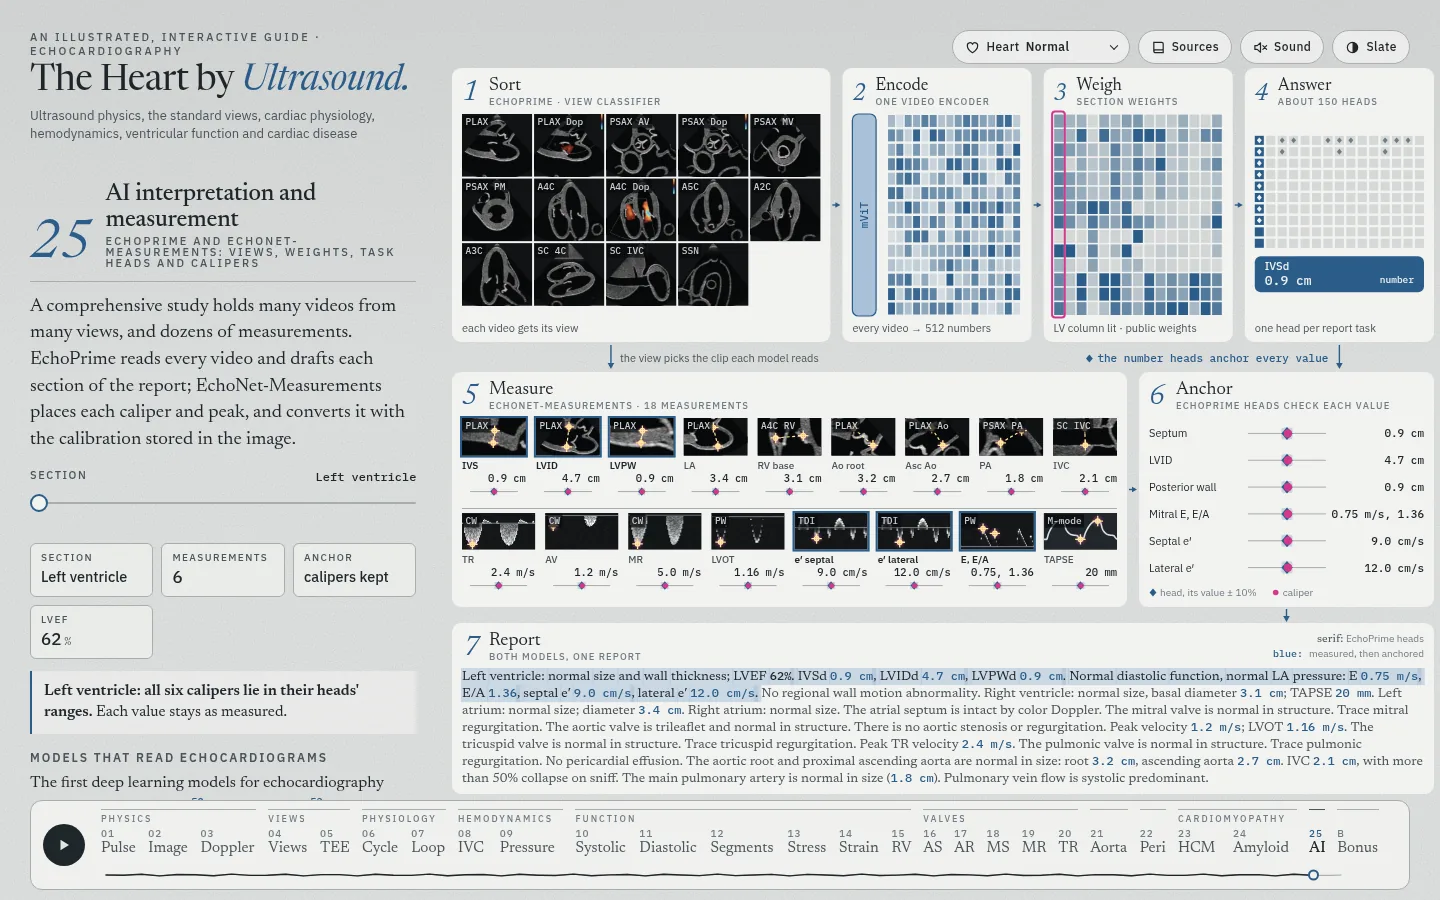
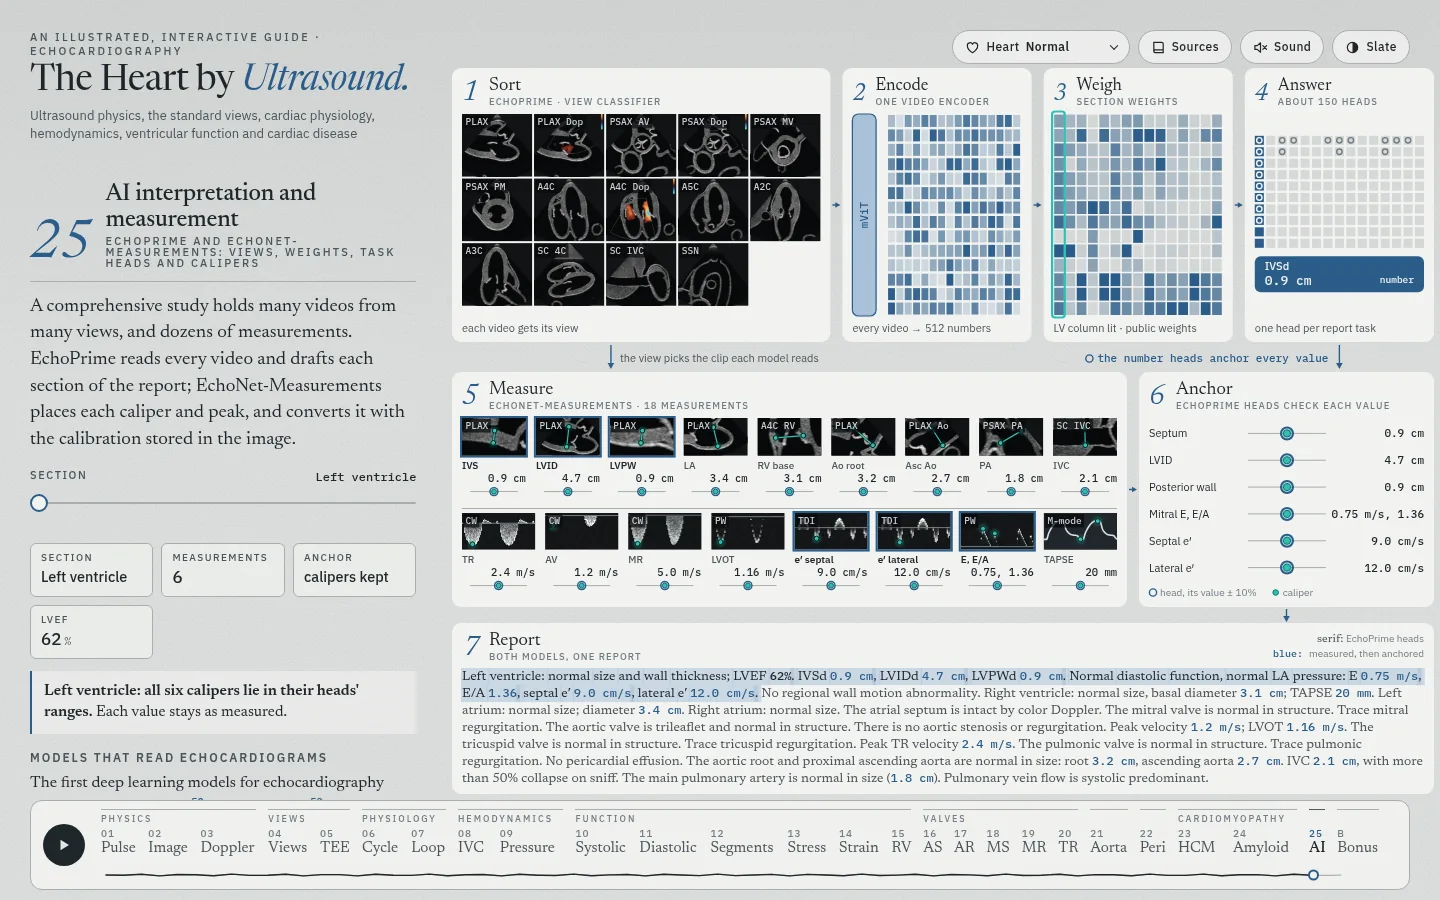
AI figure: the measurement marks in the InVision teal; dots, not crosses
- Heat maps, caliper lines and ends, the anchor's caliper dots, the lit
  column's frame and the values before the anchor: teal #2dc1b3. On
  paper, text and edges in #0f766e.
- Caliper ends: a teal dot with a dark edge on a solid teal line. The
  yellow dashed line and the ring with a cross are gone.
- Number heads: a ring in the accent, not a diamond. On slate, a deeper
  blue keeps it apart from the teal (dataviz check: dE 16.8, was 11.1).
- measure.js: blob() takes a color. The hidden chapter keeps its colors.
- README: checks entry; docs/screenshots/ai.webp taken again.

Claude-Session: https://claude.ai/code/session_01NtQNVy8YQ5NUAw3xwF3MnN

diff --git a/src/aifig.js b/src/aifig.js
@@ -21,7 +21,7 @@ import { SC, spectral } from './scope.js';
 import { cycleAt, RR } from './cyclemodel.js';
 import { SECTIONS, W as WEIGHT } from './echoprime.js';
 import { buildReport } from './ch/report.js';
-import { B, D, SITE, siteValue, dopplerOf, regionOf, DW, DH, DEEPER, OFF, blob, centerMark, loadViews, warmViews, reportedFrame } from './ch/measure.js';
+import { B, D, SITE, siteValue, dopplerOf, regionOf, DW, DH, DEEPER, OFF, blob, loadViews, warmViews, reportedFrame } from './ch/measure.js';
 
 const SERIF = '"Newsreader", "Iowan Old Style", "Palatino Linotype", Palatino, Georgia, serif';
 /** A head's range in the figure: its value ± 10%. A band chosen for the figure, not the model's error. */
@@ -197,8 +197,11 @@ const mix = (a, b, u) => a.map((x, i) => Math.round(x + (b[i] - x) * u));
 const css = (c, a = 1) => (a >= 1 ? `rgb(${c[0]},${c[1]},${c[2]})` : `rgba(${c[0]},${c[1]},${c[2]},${a})`);
 /**
  * The figure's colors from the sheet's tokens, in both themes: the cards on paper-2; the weights
- * from paper-3 (0) to the accent (1); the heat maps' pink, on the paper and on the scanner.
+ * from paper-3 (0) to the accent (1). The measurement model's marks are in the InVision teal
+ * (invision-brand): #2dc1b3 for the heat maps, the calipers' dots and lines and the frame; on
+ * paper, text and outlines in the readable teal #0f766e.
  */
+const TEAL = '#2dc1b3', TEAL_RGB = [45, 193, 179];
 function palette(t) {
   const key = `${t.paper}|${t.paper2}|${t.paper3}|${t.accent}|${t.dark}`;
   if (PAL.key === key) return PAL;
@@ -207,7 +210,11 @@ function palette(t) {
     key,
     card: t.paper2,
     weight: (w) => css(mix(p3, ac, clamp(w, 0, 1))),
-    pink: t.dark ? '#ff6fb5' : '#d2398c',
+    teal: TEAL,
+    tealInk: t.dark ? TEAL : '#0f766e',
+    // the head's ring beside the teal dot: the accent; on slate a deeper blue, as the light accent
+    // and the teal are too alike there (dataviz palette check: ΔE 11 against 17)
+    head: t.dark ? css(mix(ac, rgbOf(t.accent2), 0.5)) : t.accent,
     band: css(ac, t.dark ? 0.3 : 0.2),
     lit: css(rgbOf(t.accent2), t.dark ? 0.75 : 0.55),
   };
@@ -255,15 +262,6 @@ function rrect(ctx, x, y, w, h, r) {
   ctx.arcTo(x, y, x + w, y, r);
   ctx.closePath();
 }
-function diamond(ctx, x, y, r, fill) {
-  ctx.save();
-  ctx.fillStyle = fill;
-  ctx.beginPath();
-  ctx.moveTo(x, y - r); ctx.lineTo(x + r * 0.85, y); ctx.lineTo(x, y + r); ctx.lineTo(x - r * 0.85, y);
-  ctx.closePath();
-  ctx.fill();
-  ctx.restore();
-}
 function dot(ctx, x, y, r, fill) {
   ctx.save();
   ctx.fillStyle = fill;
@@ -279,6 +277,41 @@ function ring(ctx, x, y, r, color) {
   ctx.setLineDash([2, 2]);
   ctx.beginPath();
   ctx.arc(x, y, r, 0, 2 * Math.PI);
+  ctx.stroke();
+  ctx.restore();
+}
+/** A number head: a ring in the accent. On a scale, the caliper's dot inside it is a value the head confirms. */
+function headRing(ctx, x, y, r, color) {
+  ctx.save();
+  ctx.strokeStyle = color;
+  ctx.lineWidth = Math.max(1.4, r * 0.34);
+  ctx.beginPath();
+  ctx.arc(x, y, r, 0, 2 * Math.PI);
+  ctx.stroke();
+  ctx.restore();
+}
+/** A caliper's value: a teal dot, edged in the readable teal on paper, where the teal alone is pale. */
+function calDot(ctx, t, x, y, r) {
+  const C = palette(t);
+  dot(ctx, x, y, r, C.teal);
+  if (t.dark) return;
+  ctx.save();
+  ctx.strokeStyle = C.tealInk;
+  ctx.lineWidth = 1;
+  ctx.beginPath();
+  ctx.arc(x, y, r, 0, 2 * Math.PI);
+  ctx.stroke();
+  ctx.restore();
+}
+/** A caliper's end on the scanner's image: a teal dot, edged dark so that it holds over bright tissue. */
+function endDot(ctx, x, y, r = 2.4) {
+  ctx.save();
+  ctx.fillStyle = TEAL;
+  ctx.strokeStyle = 'rgba(8,10,12,0.85)';
+  ctx.lineWidth = 1;
+  ctx.beginPath();
+  ctx.arc(x, y, r, 0, 2 * Math.PI);
+  ctx.fill();
   ctx.stroke();
   ctx.restore();
 }
@@ -959,8 +992,8 @@ function weighPanel(sh, t, b, sec, hits) {
     hits.push({ x0: b.x + s * cw, y0: b.y, x1: b.x + (s + 1) * cw, y1: b.y + h, sec: s });
   }
   ctx.save();
-  ctx.strokeStyle = C.pink;
-  ctx.lineWidth = 2;
+  ctx.strokeStyle = C.teal;
+  ctx.lineWidth = 2.2;
   rrect(ctx, b.x + sec * cw - 1.5, b.y - 2.5, cw + 1.4, h + 4, 3);
   ctx.stroke();
   ctx.restore();
@@ -981,7 +1014,7 @@ function answerPanel(sh, t, b, sec, V, hits) {
       const x = x0 + c * (s + g), y = gy + r * (s + g);
       ctx.fillStyle = lit ? t.accent : t.paper3;
       ctx.fillRect(x, y, s, s);
-      if (r < nh) diamond(ctx, x + s / 2, y + s / 2, s * 0.32, lit ? t.paper2 : t.ink3);
+      if (r < nh) headRing(ctx, x + s / 2, y + s / 2, s * 0.3, lit ? t.paper2 : t.ink3);
     }
     hits.push({ x0: x0 + c * (s + g) - g / 2, y0: gy, x1: x0 + c * (s + g) + s + g / 2, y1: gy + HEADS_PER * (s + g), sec: c });
   }
@@ -1156,18 +1189,21 @@ function bTile(sh, t, img, o, V, tag = o.tag) {
     ctx.drawImage(T.canvas, sx, sy, sw, shh, img.x, img.y, img.w, img.h);
     // the heat maps: a peak on each end, the second peak on the septum's map
     const sig = Math.max(2.2, 0.15 * k);
-    for (const p of [f.ends[0], f.ends[1], ...(two ? [f.p2] : [])]) { const q = P(p); blob(ctx, q[0], q[1], sig, 0.75); }
-    // the caliper after the anchor; with two peaks, the model's own end (between them) ringed
+    for (const p of [f.ends[0], f.ends[1], ...(two ? [f.p2] : [])]) { const q = P(p); blob(ctx, q[0], q[1], sig, 0.6, TEAL_RGB); }
+    // the caliper after the anchor: a teal line between two teal dots, over a dark line that
+    // keeps it clear of bright tissue; with two peaks, the model's own end (between them) ringed
     const A = P(f.ends[0]), Bq = P(f.ends[1]);
-    ctx.strokeStyle = SC.cal;
-    ctx.lineWidth = 1.2;
-    ctx.setLineDash([3, 2.5]);
+    ctx.lineCap = 'round';
+    ctx.strokeStyle = 'rgba(8,10,12,0.6)';
+    ctx.lineWidth = 2.6;
     ctx.beginPath(); ctx.moveTo(A[0], A[1]); ctx.lineTo(Bq[0], Bq[1]); ctx.stroke();
-    ctx.setLineDash([]);
-    for (const q of [A, Bq]) centerMark(ctx, q[0], q[1], 2.2);
+    ctx.strokeStyle = TEAL;
+    ctx.lineWidth = 1.2;
+    ctx.beginPath(); ctx.moveTo(A[0], A[1]); ctx.lineTo(Bq[0], Bq[1]); ctx.stroke();
+    for (const q of [A, Bq]) endDot(ctx, q[0], q[1]);
     if (two) {
       const e = f.two[o.m.two.end], q = P(e);
-      ring(ctx, q[0], q[1], 3.6, palette(t).pink);
+      ring(ctx, q[0], q[1], 3.6, TEAL);
     }
   } else {
     ctx.strokeStyle = SC.frame;
@@ -1217,12 +1253,12 @@ function dTile(sh, t, img, o, V, tag = o.tag) {
       ctx.globalAlpha = 1;
     }
   }
-  // the heat maps on the peaks, and their weighted centers
+  // the heat maps on the peaks, and their weighted centers as teal dots
   const sig = Math.max(2.4, (9 / DH) * bx.h);
   for (const p of Dd.points) {
     const q = regionOf(Dd, p), x = bx.x + (q[0] / DW) * bx.w, y = bx.y + (q[1] / DH) * bx.h;
-    blob(ctx, x, y, sig, 0.8);
-    centerMark(ctx, x, y, 2.2);
+    blob(ctx, x, y, sig, 0.65, TEAL_RGB);
+    endDot(ctx, x, y);
   }
   ctx.restore();
   imgTag(sh, img, tag);
@@ -1245,11 +1281,11 @@ function tileLabel(sh, t, b, o, r, lit, one, level = 0) {
   if (r.state === 'moved') {
     // the caliper's own value before it, where it fits
     const was = `${calText(r)}→`, wO = F(10, MONO, 500), left = one && named ? b.x + nw + 6 : b.x;
-    if (b.x + b.w - vw - 3 - sh.measure(was, wO) >= left) sh.text(was, b.x + b.w - vw - 3, vy, { ...wO, align: 'right', color: C.pink });
+    if (b.x + b.w - vw - 3 - sh.measure(was, wO) >= left) sh.text(was, b.x + b.w - vw - 3, vy, { ...wO, align: 'right', color: C.tealInk });
   }
   if (level === 0) miniAnchor(sh.ctx, t, b.x + 2, vy + 10, b.w - 4, r);
 }
-/** The anchor check: the head's range and diamond on a short scale, the caliper's dot. */
+/** The anchor check: the head's range and ring on a short scale, the caliper's dot. */
 function miniAnchor(ctx, t, x, y, w, r) {
   const C = palette(t), half = Math.min(w / 2 - 6, 60), cx = x + w / 2;
   const X = (v) => cx + clamp((v / r.head - 1) / SPAN, -1.05, 1.05) * half;
@@ -1260,29 +1296,30 @@ function miniAnchor(ctx, t, x, y, w, r) {
   ctx.fillStyle = C.band;
   ctx.fillRect(X(r.lo), y - 3.5, X(r.hi) - X(r.lo), 7);
   ctx.restore();
-  diamond(ctx, X(r.head), y, 4.2, t.accent);
+  headRing(ctx, X(r.head), y, 4, C.head);
   if (r.state === 'moved') {
-    ring(ctx, X(r.cal), y, 3.4, C.pink);
+    ring(ctx, X(r.cal), y, 3.4, C.tealInk);
     ctx.save();
-    ctx.strokeStyle = C.pink;
-    ctx.fillStyle = C.pink;
+    ctx.strokeStyle = C.tealInk;
+    ctx.fillStyle = C.tealInk;
     ctx.lineWidth = 1;
     const a = X(r.cal) - 4.5, bb = X(r.value) + 5;
     ctx.beginPath(); ctx.moveTo(a, y); ctx.lineTo(bb + 3, y); ctx.stroke();
     arrowHead(ctx, bb, y, -1, 0, 4);
     ctx.restore();
   }
-  dot(ctx, X(r.value) + 0.6, y, 2.6, r.state === 'flagged' ? t.flag : C.pink);
+  if (r.state === 'flagged') dot(ctx, X(r.value), y, 2.4, t.flag);
+  else calDot(ctx, t, X(r.value), y, 2.4);
 }
 
 // 6 · Anchor: a line for each output of the section
 /** A legend glyph at (x, y), the baseline of its text: the head, the caliper, a second peak or a flag. */
 function legendGlyph(ctx, t, g, x, y) {
   const C = palette(t);
-  if (g === 'd') diamond(ctx, x + 4, y - 3.5, 4, t.accent);
-  else if (g === 'c') dot(ctx, x + 4, y - 3.5, 2.8, C.pink);
+  if (g === 'd') headRing(ctx, x + 4, y - 3.5, 3.6, C.head);
+  else if (g === 'c') calDot(ctx, t, x + 4, y - 3.5, 2.8);
   else if (g === 'f') flagMark(ctx, x + 2, y, 8, t.flag);
-  else ring(ctx, x + 4, y - 3.5, 3.4, C.pink);
+  else ring(ctx, x + 4, y - 3.5, 3.4, C.tealInk);
 }
 /**
  * The anchor's legend at the foot of box b: its items [glyph, text, short text] in one line, or
@@ -1339,7 +1376,7 @@ function anchorRows(sh, t, area, lines, V) {
     if (r.state === 'moved') {
       const v = valueText(o, r), was = `${calText(r)} →`, w1 = sh.measure(v, { ...valO, weight: 600 });
       sh.text(v, right, ty, { ...valO, weight: 600, align: 'right', color: t.accent });
-      sh.text(was, right - w1 - 6, ty, { ...valO, align: 'right', color: C.pink });
+      sh.text(was, right - w1 - 6, ty, { ...valO, align: 'right', color: C.tealInk });
       vw = w1 + 6 + sh.measure(was, valO);
     } else {
       const v = valueText(o, r), fw = r.state === 'flagged' ? 10 : 0;
@@ -1348,7 +1385,7 @@ function anchorRows(sh, t, area, lines, V) {
       vw = sh.measure(v, valO) + fw;
     }
     sh.text(fits(sh, [o.name, o.short], area.w - vw - 8, nameO) ?? o.short, area.x, ty, { ...nameO, color: t.ink });
-    // the scale: the head's range and diamond, the caliper's dot; a moved caliper ringed, with its arrow
+    // the scale: the head's range and ring, the caliper's dot; a moved caliper ringed, with its arrow
     ctx.save();
     ctx.strokeStyle = t.rule;
     ctx.lineWidth = 1;
@@ -1357,19 +1394,20 @@ function anchorRows(sh, t, area, lines, V) {
     rrect(ctx, X(r.lo), y - 3.5, X(r.hi) - X(r.lo), 7, 2);
     ctx.fill();
     ctx.restore();
-    diamond(ctx, X(r.head), y, 4.6, t.accent);
+    headRing(ctx, X(r.head), y, 4.4, C.head);
     if (r.state === 'moved') {
-      ring(ctx, X(r.cal), y, 3.8, C.pink);
+      ring(ctx, X(r.cal), y, 3.8, C.tealInk);
       ctx.save();
-      ctx.strokeStyle = C.pink;
-      ctx.fillStyle = C.pink;
+      ctx.strokeStyle = C.tealInk;
+      ctx.fillStyle = C.tealInk;
       ctx.lineWidth = 1;
       const a = X(r.cal) - 5, e = X(r.value) + 5.5;
       ctx.beginPath(); ctx.moveTo(a, y); ctx.lineTo(e + 3, y); ctx.stroke();
       arrowHead(ctx, e, y, -1, 0, 4);
       ctx.restore();
     }
-    dot(ctx, X(r.value) + 0.6, y, 3, r.state === 'flagged' ? t.flag : C.pink);
+    if (r.state === 'flagged') dot(ctx, X(r.value), y, 2.6, t.flag);
+    else calDot(ctx, t, X(r.value), y, 2.6);
   });
 }
 /** The legend's items [glyph, text, short text]: the head and its range, the caliper, a second peak, a flag. */
@@ -1435,24 +1473,25 @@ function anchorPanel(sh, t, b, sec, V, head) {
     rrect(ctx, X(r.lo), y - 6, X(r.hi) - X(r.lo), 12, 2);
     ctx.fill();
     ctx.restore();
-    diamond(ctx, X(r.head), y, 6.5, t.accent);
+    headRing(ctx, X(r.head), y, 6, C.head);
     if (r.state === 'moved') {
-      ring(ctx, X(r.cal), y, 5.5, C.pink);
+      ring(ctx, X(r.cal), y, 5.5, C.tealInk);
       ctx.save();
-      ctx.strokeStyle = C.pink;
-      ctx.fillStyle = C.pink;
+      ctx.strokeStyle = C.tealInk;
+      ctx.fillStyle = C.tealInk;
       ctx.lineWidth = 1.2;
       const a = X(r.cal) - 7, e = X(r.value) + 7;
       ctx.beginPath(); ctx.moveTo(a, y); ctx.lineTo(e + 4, y); ctx.stroke();
       arrowHead(ctx, e, y, -1, 0, 5);
       ctx.restore();
     }
-    dot(ctx, X(r.value) + 1, y, 4.2, r.state === 'flagged' ? t.flag : C.pink);
+    if (r.state === 'flagged') dot(ctx, X(r.value), y, 3.6, t.flag);
+    else calDot(ctx, t, X(r.value), y, 3.6);
     const vx = area.x + area.w;
     if (r.state === 'moved') {
       const v = valueText(o, r), vw = sh.measure(v, { ...valO, weight: 600 });
       sh.text(v, vx, y + 4, { ...valO, weight: 600, align: 'right', color: t.accent });
-      sh.text(`${calText(r)} →`, vx - vw - 7, y + 4, { ...valO, align: 'right', color: C.pink });
+      sh.text(`${calText(r)} →`, vx - vw - 7, y + 4, { ...valO, align: 'right', color: C.tealInk });
     } else {
       const v = valueText(o, r);
       sh.text(v, vx - (r.state === 'flagged' ? 10 : 0), y + 4, { ...valO, align: 'right', color: r.state === 'flagged' ? t.flag : t.ink });
@@ -1588,7 +1627,7 @@ function links(sh, t, L) {
   const w2 = sh.measure(s2, lo) + 14;
   const cx = (x4 + xb) / 2;
   if (w2 < x4 - xb - 20) {
-    diamond(ctx, cx - w2 / 2 + 4, ym - 8, 4, t.accent);
+    headRing(ctx, cx - w2 / 2 + 4, ym - 8, 3.6, t.accent);
     sh.text(s2, cx - w2 / 2 + 12, ym - 4.5, { ...lo, color: t.accent });
   }
 }
@@ -1620,7 +1659,7 @@ function arrows(sh, t, L) {
   ctx.restore();
   sh.text(K.s1, K.x1 + 9, ym + 4, { ...F(11, SANS, 400), color: t.ink2 });
   const yb = K.at === 'branch' ? ym - 4.5 : K.at === 1 ? ym + 4 : ym + 20;
-  diamond(ctx, K.l2x + 4, yb - 3.5, 4, t.accent);
+  headRing(ctx, K.l2x + 4, yb - 3.5, 3.6, t.accent);
   sh.text(K.s2, K.l2x + 12, yb, { ...F(11, MONO, 500), color: t.accent });
 }
 
@@ -1638,7 +1677,7 @@ function linkNotes(sh, t, b) {
   arrowHead(ctx, b.x + 4, y1 + 1, 0, 1, 5);
   ctx.restore();
   sh.text(a, b.x + 14, y1, { ...o, color: t.ink2 });
-  diamond(ctx, x2 + 4, y2 - 4, 4, t.accent);
+  headRing(ctx, x2 + 4, y2 - 4, 3.6, t.accent);
   sh.text(d, x2 + 12, y2, { ...lo, color: t.accent });
 }
 

diff --git a/src/ch/measure.js b/src/ch/measure.js
@@ -539,10 +539,10 @@ const redraw = () => { if (sheet) sheet.dirty = true; };
 const MESH = new MeshPanel('plax', { redraw });
 
 // ---------------------------------------------------------------- drawing helpers
-/** A heat map's peak on the image: a Gaussian of the heat hue, σ = sigma px, up to alpha a. */
-function blob(ctx, x, y, sigma, a = 0.8) {
+/** A heat map's peak on the image: a Gaussian of the heat hue (or of rgb), σ = sigma px, up to alpha a. */
+function blob(ctx, x, y, sigma, a = 0.8, rgb = HEAT) {
   const R = 3 * sigma, g = ctx.createRadialGradient(x, y, 0, x, y, R);
-  for (let i = 0; i <= 6; i++) { const k = i / 2; g.addColorStop(i / 6, heat(a * Math.exp(-(k * k) / 2))); }
+  for (let i = 0; i <= 6; i++) { const k = i / 2; g.addColorStop(i / 6, `rgba(${rgb[0]},${rgb[1]},${rgb[2]},${a * Math.exp(-(k * k) / 2)})`); }
   ctx.save();
   ctx.fillStyle = g;
   ctx.beginPath();

diff --git a/README.md b/README.md
@@ -587,6 +587,15 @@ node tools/render-video.mjs --reel --stills=7,42.5             # PNG stills at t
 
 Each entry keeps the chapter numbers of the day it was written.
 
+- AI interpretation and measurement: the measurement model's marks in the InVision style, after the request "For AI, make the findings and markers using hte invision style, likely green instad of purple, dont use stars but dots and update annotation style". The pink of the heat maps, of the anchor's caliper dots, of the lit column's frame and of the values before the anchor is now the InVision teal `#2dc1b3` (invision-brand). On paper, text and edges take the readable teal `#0f766e`.
+  - Each caliper end on the images is a teal dot with a dark edge, on a solid teal line over a dark line. The yellow dashed line and the ring with a cross are gone. The Doppler and M-mode peaks take the same dot.
+  - Each number head is a ring in the accent, not a diamond. On a scale, the caliper's dot sits in its head's ring. On slate, the ring takes a deeper blue (the accent mixed half with accent-2): the light accent and the teal were too alike there. The dataviz palette check gives ΔE 16.8 for normal vision and 14.1 for deuteranopia, against 11.1 and 6.1 before.
+  - On paper, `#2dc1b3` has a contrast of 2.0:1, so each dot there has a `#0f766e` edge (4.9:1). On the scanner's images, the teal has 8.3:1.
+  - `blob()` in `src/ch/measure.js` takes a color. The hidden Automated measurements chapter keeps its pink heat maps and yellow calipers.
+  - `node --check` passes on the 2 changed JS files. `node tools/check-state.mjs` and `node tools/preload.mjs --check` pass. The 31 chapters open at 1440 × 900 and 390 × 844 with no page error.
+  - With the two-peaked map off, all 17 values of the five hearts are kept, so no moved or flagged mark shows. With the map on (a test only), the moved septum shows the dashed teal ring, the teal arrow and "1.3 → 0.9 cm".
+  - `docs/screenshots/ai.webp` was taken again, with the state of the screenshot before.
+  - The AI video and the intro still show the marks before this change. They render again after main is merged into this branch, with the AI chapter as 24.
 - Pericardial disease: the effusion first, after the request "Merge the two chapters on pericardium, with priority on pericardial effusion and less priority on cp". The text before held 659 words on the effusion and tamponade and 559 on constriction. Constriction is now one section of 259 words and a paragraph of 39 on restrictive cardiomyopathy: 298 words, 30% of the 985 on the two conditions. The dek leads with the effusion, and three of the four key points are on the effusion and tamponade. Effusive-constrictive pericarditis is one pitfall of the effusion. The chapter holds 1,162 words (cap 1,700).
   - The figure, the live text, the readouts, the quiz and the tour do not change. The sentences that stay keep their citations, and no new source is cited.
   - `node tools/check-state.mjs` and `node tools/preload.mjs --check` pass. The 31 chapters open at 1440 × 900 and 390 × 844 with no page error.
